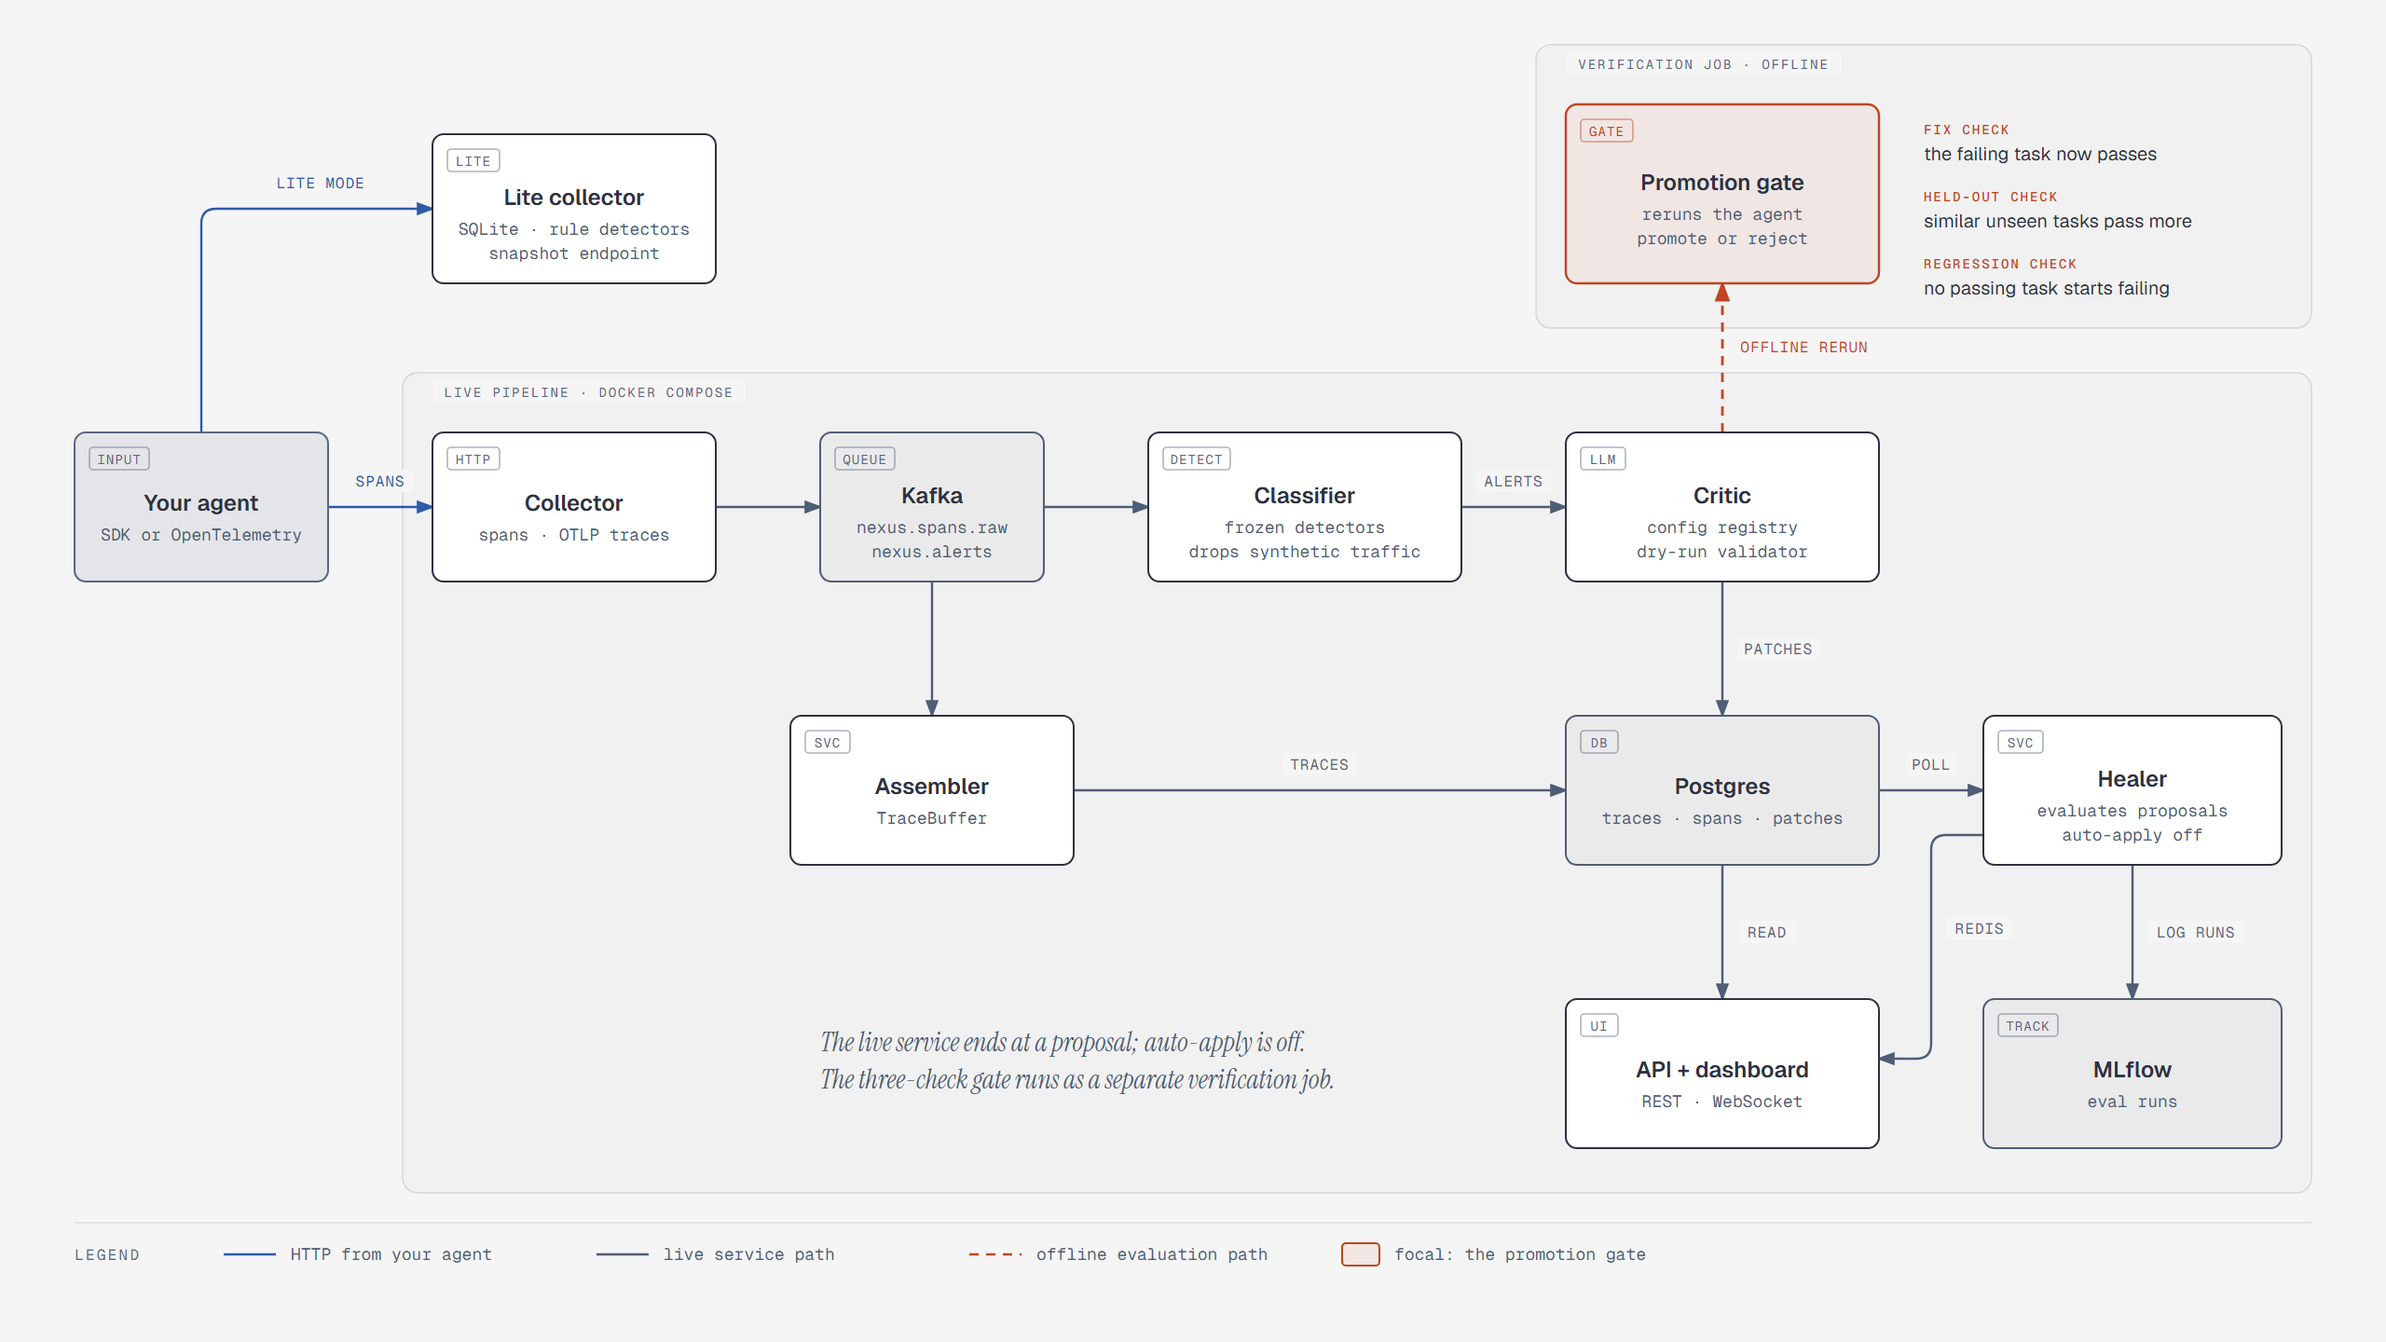
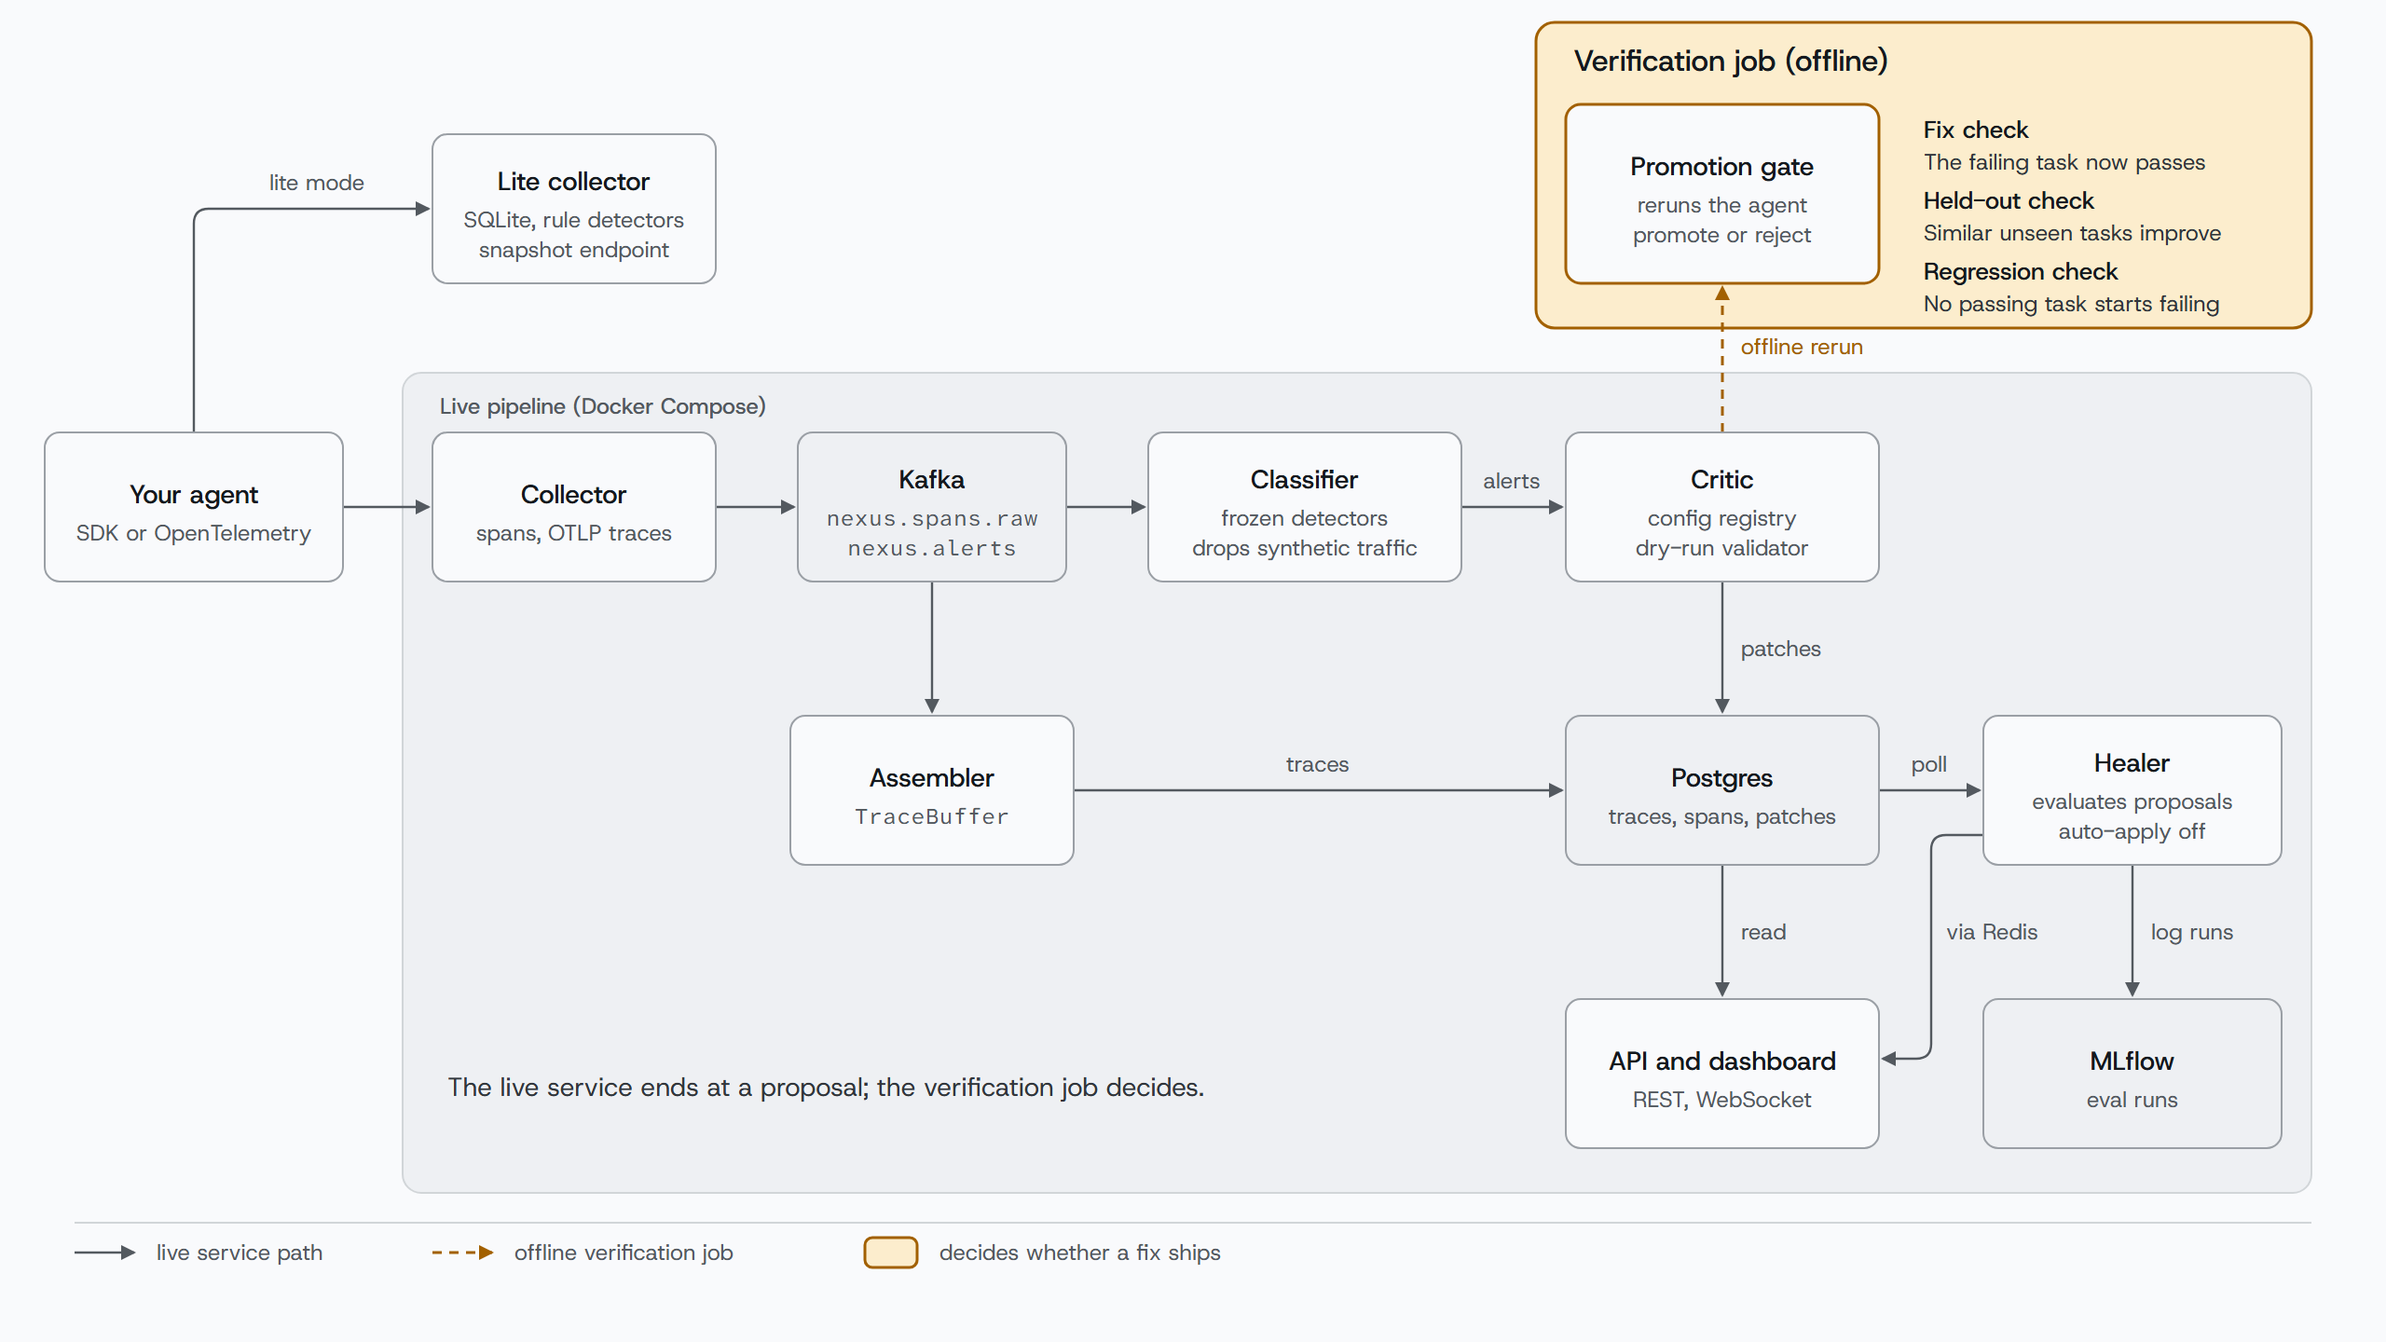
docs(diagrams): story diagram for "How it works"; architecture restyled for engineers
Story diagram (new): your agent -> Nexus live service -> proposal (dashed: handed to a separate
job) -> verification job (fix, held-out, regression checks) -> promote or reject. The job is the
largest, highest-contrast element; amber only on the job and the decision. No chips, italics,
serif, uppercase tracked labels, numbers or icons; Console palette and the bundled fonts.
- README "How it works": <picture> with light and dark PNGs at 2x and a descriptive alt text.
- Demo page "How it works": inline SVG coloured by the page tokens (no images, no off-host
  fonts), horizontal from 1024px, a vertical variant below it (smallest label 14px at ~1:1 on a
  390px phone). The two-group "What runs" strip is removed (the diagram now carries that split);
  that section becomes "What it costs to run".

Architecture diagram (restyled, same boxes and arrows): no tag chips, one plain caption, sentence
case arrow labels, same palette and fonts, the verification job in amber. README moves it to
"Architecture (for engineers)"; the site's "View full diagram" PNG is updated.

Impeccable critique fixes: larger README text, the job labelled as separate, Promote as an amber
outline, consistent check wording, verification header size, label masks off zone borders, the
ambiguous legend swatch dropped. Detector: no findings on any diagram.

check_frozen.py: the Phase 6 branch allowlist adds diagram-redo; frozen-content checks unchanged.

diff --git a/dashboard/src/story/Story.tsx b/dashboard/src/story/Story.tsx
@@ -1,10 +1,13 @@
-import { useRef, useState, type CSSProperties, type KeyboardEvent, type ReactNode } from 'react'
+import { useRef, useState, type KeyboardEvent, type ReactNode } from 'react'
 import type { Count, GateCheck, ReplayData, ReplayHeal, StoryFigure } from '../replay'
 import {
   arm, decimal, figure, interval, proof, repoFile, secondsText, usd, value, word,
 } from '../hero/numbers'
 import { CopyBlock, Fraction, SourceLink } from '../hero/parts'
 import { INSTALL } from '../hero/Hero'
+// The story diagram, generated as inline SVG coloured by the page tokens (no images, no off-host fonts).
+import storyHorizontal from './diagrams/story-horizontal.svg?raw'
+import storyVertical from './diagrams/story-vertical.svg?raw'
 
 // ── shared pieces ─────────────────────────────────────────────────────────────
 
@@ -73,6 +76,10 @@ export function Mechanism({ data }: { data: ReplayData }) {
   ]
   return (
     <Section id="how" title="Three checks before a fix ships">
+      <figure className="nx-story">
+        <div className="nx-story__wide" dangerouslySetInnerHTML={{ __html: storyHorizontal }} />
+        <div className="nx-story__narrow" dangerouslySetInnerHTML={{ __html: storyVertical }} />
+      </figure>
       <ol className="nx-flow" aria-label="The Nexus pipeline">
         {steps.map(step => (
           <li key={step.name} className={`nx-flow__step${step.check ? ' nx-flow__step--check' : ''}`}>
@@ -84,7 +91,7 @@ export function Mechanism({ data }: { data: ReplayData }) {
       <p className="nx-flow__more">
         <a className="nx-source" href={`${import.meta.env.BASE_URL}nexus-architecture-dark.png`}
            target="_blank" rel="noreferrer"
-           aria-label="View full diagram: the Nexus architecture as an image (opens in a new tab)">
+           aria-label="View full diagram: the Nexus architecture, for engineers, as an image (opens in a new tab)">
           View full diagram
         </a>
       </p>
@@ -330,33 +337,7 @@ export function Walkthrough({ data }: { data: ReplayData }) {
   )
 }
 
-// ── 6. how it works, speed and cost ───────────────────────────────────────────
-
-// Two separate things run: the live service, which ends at a proposal, and the verification job,
-// which decides. The live service does not run the gate.
-const ARCHITECTURE = [
-  {
-    name: 'Live service',
-    note: 'Runs continuously next to your agent and ends at a proposal.',
-    parts: [
-      { name: 'SDK or OpenTelemetry', line: 'Your agent emits spans.' },
-      { name: 'Collector', line: 'Receives and validates them.' },
-      { name: 'Kafka', line: 'Queues them in order.' },
-      { name: 'Detectors', line: 'Classify each finished trace.' },
-      { name: 'Critic', line: 'Writes a proposal.' },
-    ],
-  },
-  {
-    name: 'Verification job',
-    note: 'Runs separately, against your agent’s task suite, and decides.',
-    parts: [
-      { name: 'Repair', line: 'Reruns the failing task with the patch.' },
-      { name: 'Held-out', line: 'Runs similar tasks the patch was not written for.' },
-      { name: 'Regression', line: 'Reruns tasks that already passed.' },
-      { name: 'Promote or reject', line: 'Promoted only if all three checks pass.' },
-    ],
-  },
-]
+// ── 6. speed and cost ─────────────────────────────────────────────────────────
 
 export function Architecture({ data }: { data: ReplayData }) {
   const alert = figure(data, 'time_to_alert')
@@ -365,25 +346,8 @@ export function Architecture({ data }: { data: ReplayData }) {
   const sdk = figure(data, 'sdk_overhead')
   const ingest = figure(data, 'ingestion')
   return (
-    <Section id="architecture" title="What runs, and what it costs" band
+    <Section id="architecture" title="What it costs to run" band
              lead="Measured on one laptop with the full stack running.">
-      <div className="nx-arch-groups">
-        {ARCHITECTURE.map(group => (
-          <div key={group.name} className="nx-arch-group">
-            <h3 className="nx-arch-group__name">{group.name}</h3>
-            <p className="nx-arch-group__note">{group.note}</p>
-            <ol className="nx-arch" style={{ '--cols': group.parts.length } as CSSProperties}
-                aria-label={`${group.name}, in order`}>
-              {group.parts.map(part => (
-                <li key={part.name} className="nx-arch__part">
-                  <span className="nx-arch__name">{part.name}</span>
-                  <span className="nx-arch__line">{part.line}</span>
-                </li>
-              ))}
-            </ol>
-          </div>
-        ))}
-      </div>
       <dl className="nx-figures">
         <div className="nx-figures__item">
           <dt>Time to alert</dt>

diff --git a/dashboard/src/hero/hero.css b/dashboard/src/hero/hero.css
@@ -114,6 +114,10 @@
 .nx-flow__step--check { border-color: var(--color-cool); }
 .nx .nx-flow__name { font-size: var(--text-lg); line-height: 1.2; }
 .nx .nx-flow__line { font-size: var(--text-md); line-height: 1.5; color: var(--color-ink-2); }
+.nx-story { margin: 0 0 var(--space-xl); }
+.nx-story svg { display: block; width: 100%; height: auto; }
+.nx-story__narrow { display: none; max-width: 440px; margin: 0 auto; }
+@media (max-width: 1023px) { .nx-story__wide { display: none; } .nx-story__narrow { display: block; } }
 .nx .nx-flow__more { margin: var(--space-md) 0 0; }
 
 /* 4. the finding as an index: reading, meaning, interval and source */
@@ -174,13 +178,6 @@
 .nx-diff:focus-visible { outline: 2px solid var(--color-focus); outline-offset: 2px; }
 
 /* 6. architecture and figures */
-.nx-arch { display: grid; grid-template-columns: repeat(var(--cols, 6), minmax(0, 1fr)); margin: 0; padding: 0; list-style: none; border: var(--rule-hair) solid var(--color-rule); border-radius: var(--radius-card); overflow: hidden; gap: var(--rule-hair); background: var(--color-rule); }
-.nx-arch-groups { display: grid; gap: var(--space-xl); margin: 0 0 var(--space-2xl); }
-.nx .nx-arch-group__name { font-size: var(--text-lg); line-height: 1.2; margin: 0; }
-.nx .nx-arch-group__note { font-size: var(--text-sm); color: var(--color-ink-2); margin: var(--space-2xs) 0 var(--space-sm); }
-.nx-arch__part { display: flex; flex-direction: column; gap: var(--space-2xs); padding: var(--space-lg); background: var(--color-paper-2); }
-.nx-arch__name { font-weight: 500; color: var(--color-ink); }
-.nx-arch__line { font-size: var(--text-sm); color: var(--color-ink-2); }
 .nx-figures { display: grid; grid-template-columns: repeat(5, minmax(0, 1fr)); gap: var(--space-xl) var(--gap-columns); margin: 0; }
 .nx-figures__item { display: flex; flex-direction: column; gap: var(--space-xs); padding-left: var(--space-lg); border-left: var(--rule-hair) solid var(--color-rule); }
 .nx-figures__item:first-child { padding-left: 0; border-left: 0; }
@@ -226,7 +223,6 @@
 @media (max-width: 75rem) {
   .nx-flow { grid-template-columns: repeat(3, minmax(0, 1fr)); }
   .nx-flow__step:nth-child(3n)::after { display: none; }
-  .nx-arch { grid-template-columns: repeat(3, minmax(0, 1fr)); }
   .nx-figures { grid-template-columns: repeat(3, minmax(0, 1fr)); }
   .nx-figures__item:nth-child(3n + 1) { padding-left: 0; border-left: 0; }
 }
@@ -249,7 +245,7 @@
   .nx-proof__head { padding-inline: var(--space-lg); }
   .nx-nav__links { gap: var(--space-md); }
   .nx-install__cmd { font-size: var(--text-sm); padding-inline: var(--space-sm); }
-  .nx-flow, .nx-arch { grid-template-columns: minmax(0, 1fr); }
+  .nx-flow { grid-template-columns: minmax(0, 1fr); }
   .nx-flow__step::after { display: none; }
   .nx-figures { grid-template-columns: minmax(0, 1fr); }
   .nx-figures__item { padding-left: 0; border-left: 0; padding-top: var(--space-md); border-top: var(--rule-hair) solid var(--color-rule); }

diff --git a/scripts/phase6/check_frozen.py b/scripts/phase6/check_frozen.py
@@ -9,10 +9,10 @@ from scripts.phase5.check_frozen import PATHS, TAG, git  # noqa: E402
 
 
 def main():
-    # Phase 6 branches: the demo branch, and the post-release polish PR built on it.
+    # Phase 6 branches: the demo branch and the follow-up PR branches built on it.
     branch = git("branch", "--show-current").decode().strip()
-    if branch not in ("phase-6-demo", "post-release-polish"):
-        raise RuntimeError(f"Phase 6 must run on phase-6-demo or post-release-polish, not {branch!r}")
+    if branch not in ("phase-6-demo", "post-release-polish", "diagram-redo"):
+        raise RuntimeError(f"Phase 6 must run on a Phase 6 branch, not {branch!r}")
     git("merge-base", "--is-ancestor", TAG, "HEAD")
     print(f"Frozen reference: {TAG}")
     tree = git("ls-tree", "-r", "--name-only", TAG, "--",

diff --git a/README.md b/README.md
@@ -87,14 +87,12 @@ A number measured where you tuned flatters you.
 ## How it works
 
 <picture>
-  <source media="(prefers-color-scheme: dark)" srcset="docs/assets/nexus-architecture-dark.png">
-  <img src="docs/assets/nexus-architecture-light.png" alt="Nexus architecture. Your agent sends spans with the nexus-llmops SDK or OpenTelemetry to the collector, which publishes them to Kafka. The assembler builds traces and stores them in Postgres; the classifier runs the frozen detectors, drops synthetic traffic, and raises alerts. The LLM critic, with a config registry and a dry-run validator, writes patches to Postgres, where the healer evaluates them, logs eval runs to MLflow and, by default, applies nothing; the API and dashboard read Postgres. Separately, the promotion gate runs as an offline verification job: it reruns the agent and promotes a patch only if it passes the fix, held-out and regression checks. Lite mode is a single collector with SQLite and the rule detectors.">
+  <source media="(prefers-color-scheme: dark)" srcset="docs/assets/nexus-story-dark.png">
+  <img src="docs/assets/nexus-story-light.png" alt="How Nexus decides whether a fix ships. Your agent, instrumented with the SDK or OpenTelemetry, sends traces to the Nexus live service, which detects failing runs and has an LLM critic write a proposed fix. The proposal goes to a separate verification job that runs against your agent's task suite: a fix check (the failing task now passes), a held-out check (similar unseen tasks improve) and a regression check (no passing task starts failing). If all three pass the fix is promoted; if one fails it is rejected.">
 </picture>
 
-The live stack runs the detectors and the critic as services and ends at a proposal. The three-check
-promotion gate runs as a separate verification job: the evaluation harness that produced the results above
-(`bench/heal/`, `services/healer/gate.py`). The live healer evaluates and logs proposals; it applies them only
-with `NEXUS_HEALER_AUTO_APPLY=true`, a legacy path that does not run the gate (off by default).
+The live service ends at a proposal; the verification job decides. The engineers' view, with every service,
+is under [Architecture (for engineers)](#architecture-for-engineers).
 
 Speed and cost, measured on one laptop with the full stack running (development data):
 
@@ -182,6 +180,18 @@ docker compose up --build
 ```
 
 The SDK's own README is [sdk/README.md](sdk/README.md); changes are in [CHANGELOG.md](CHANGELOG.md).
+
+## Architecture (for engineers)
+
+<picture>
+  <source media="(prefers-color-scheme: dark)" srcset="docs/assets/nexus-architecture-dark.png">
+  <img src="docs/assets/nexus-architecture-light.png" alt="Nexus architecture. Your agent sends spans with the nexus-llmops SDK or OpenTelemetry to the collector, which publishes them to Kafka. The assembler builds traces and stores them in Postgres; the classifier runs the frozen detectors, drops synthetic traffic, and raises alerts. The LLM critic, with a config registry and a dry-run validator, writes patches to Postgres, where the healer evaluates them, logs eval runs to MLflow and, by default, applies nothing; the API and dashboard read Postgres. Separately, the promotion gate runs as an offline verification job: it reruns the agent and promotes a patch only if it passes the fix, held-out and regression checks. Lite mode is a single collector with SQLite and the rule detectors.">
+</picture>
+
+The live stack runs the detectors and the critic as services and ends at a proposal. The three-check
+promotion gate runs as a separate verification job: the evaluation harness that produced the results above
+(`bench/heal/`, `services/healer/gate.py`). The live healer evaluates and logs proposals; it applies them only
+with `NEXUS_HEALER_AUTO_APPLY=true`, a legacy path that does not run the gate (off by default).
 
 ## Evidence
 

diff --git a/dashboard/DESIGN.md b/dashboard/DESIGN.md
@@ -7,9 +7,9 @@ keeps its own light Tailwind styles and tokens in `src/index.css`.
 
 ## Page order
 
-Hero; the problem (rows); what Nexus does (a six-stage flow, the three checks outlined in cool); the finding (an
+Hero; the problem (rows); what Nexus does (the story diagram, horizontal on wide screens and vertical below 1024px, with the verification job as the one amber element; then a six-stage flow, the three checks outlined in cool; a link to the full architecture diagram); the finding (an
 index of readings with interval and source); per class and dev-vs-test (bar charts on a band); one heal step by step
-(vertical tabs beside an audit trail); architecture and cost (a strip and five figures on a band); use it (copyable
+(vertical tabs beside an audit trail); cost (five figures on a band); use it (copyable
 code); limits (rows); the recorded evidence (the replay explorer behind a disclosure); a colophon footer.
 
 ## World
